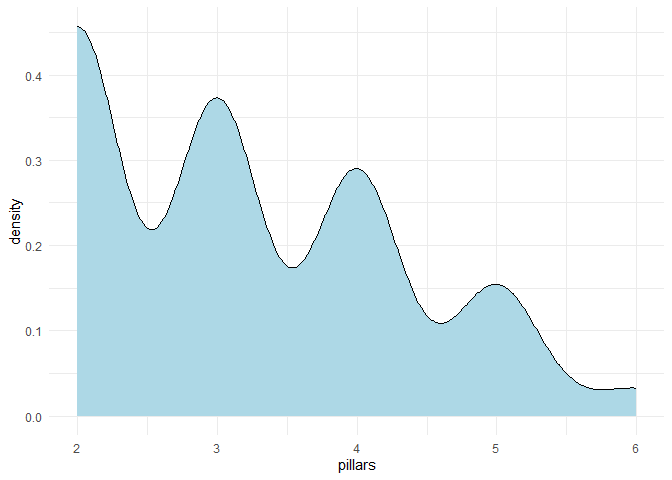
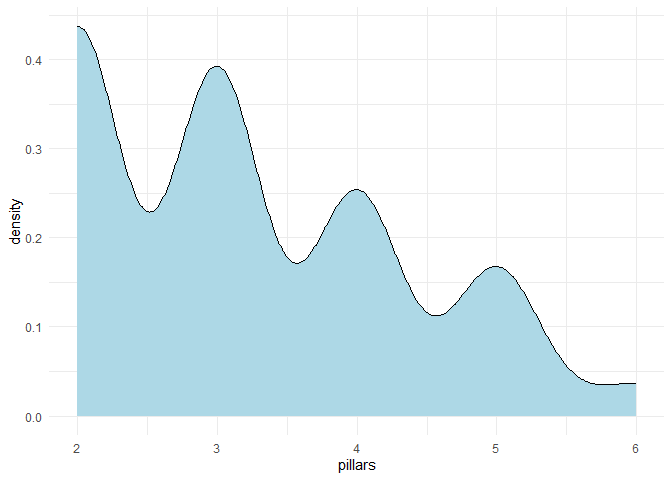
delete simulation.R

diff --git a/README.md b/README.md
@@ -6,30 +6,36 @@
 The goal of little_cooperation is to simulate the game “little
 cooperation” to analyze the probability of winning.
 
+Inspired on
+<https://github.com/kjytay/misc/blob/master/blog/2021-01-05%20first_orchard.R>
+
 ## Game simulation
 
 ``` r
 simulate_game(verbose = TRUE) |> knitr::kable()
-#> Roll: pillar , State: 4,0,5
-#> Roll: pillar , State: 4,0,4
-#> Roll: bridge , State: 3,1,4
-#> Roll: pillar , State: 3,1,3
-#> Roll: bridge , State: 2,2,3
-#> Roll: home , State: 2,1,3
-#> Roll: home , State: 2,0,3
-#> Roll: bridge , State: 1,1,3
-#> Roll: bridge , State: 0,2,3
-#> Roll: bridge , State: 0,2,3
-#> Roll: bridge , State: 0,2,3
-#> Roll: home , State: 0,1,3
-#> Roll: home , State: 0,0,3
-#> Players win
-#> # of turns: 13
+#> Roll: bridge , State: 3,1,6
+#> Roll: bridge , State: 2,2,6
+#> Roll: pillar , State: 2,2,5
+#> Roll: pillar , State: 2,2,4
+#> Roll: home , State: 2,1,4
+#> Roll: bridge , State: 1,2,4
+#> Roll: home , State: 1,1,4
+#> Roll: pillar , State: 1,1,3
+#> Roll: pillar , State: 1,1,2
+#> Roll: bridge , State: 0,2,2
+#> Roll: bridge , State: 0,2,2
+#> Roll: bridge , State: 0,2,2
+#> Roll: bridge , State: 0,2,2
+#> Roll: home , State: 0,1,2
+#> Roll: bridge , State: 0,1,2
+#> Roll: pillar , State: 0,1,1
+#> Bridge collapses
+#> # of turns: 16
 ```
 
 | outcome | num_turns | start | bridge | home | pillars |
 |--------:|----------:|------:|-------:|-----:|--------:|
-|       1 |        13 |     0 |      0 |    4 |       3 |
+|       2 |        16 |     0 |      1 |    3 |       1 |
 
 ``` r
 
@@ -40,10 +46,10 @@ nsim <- 1000
 result <- purrr::map_dfr(1:nsim, ~ simulate_game(verbose = FALSE))
 
 cat("Probability of winning:", sum(result$outcome == 1)/nsim * 100, "%\n")
-#> Probability of winning: 36.5 %
+#> Probability of winning: 36.1 %
 
 cat("Average of turns:", mean(result$num_turns))
-#> Average of turns: 12.701
+#> Average of turns: 12.731
 ```
 
 ## Number of remaining pillars when players win
